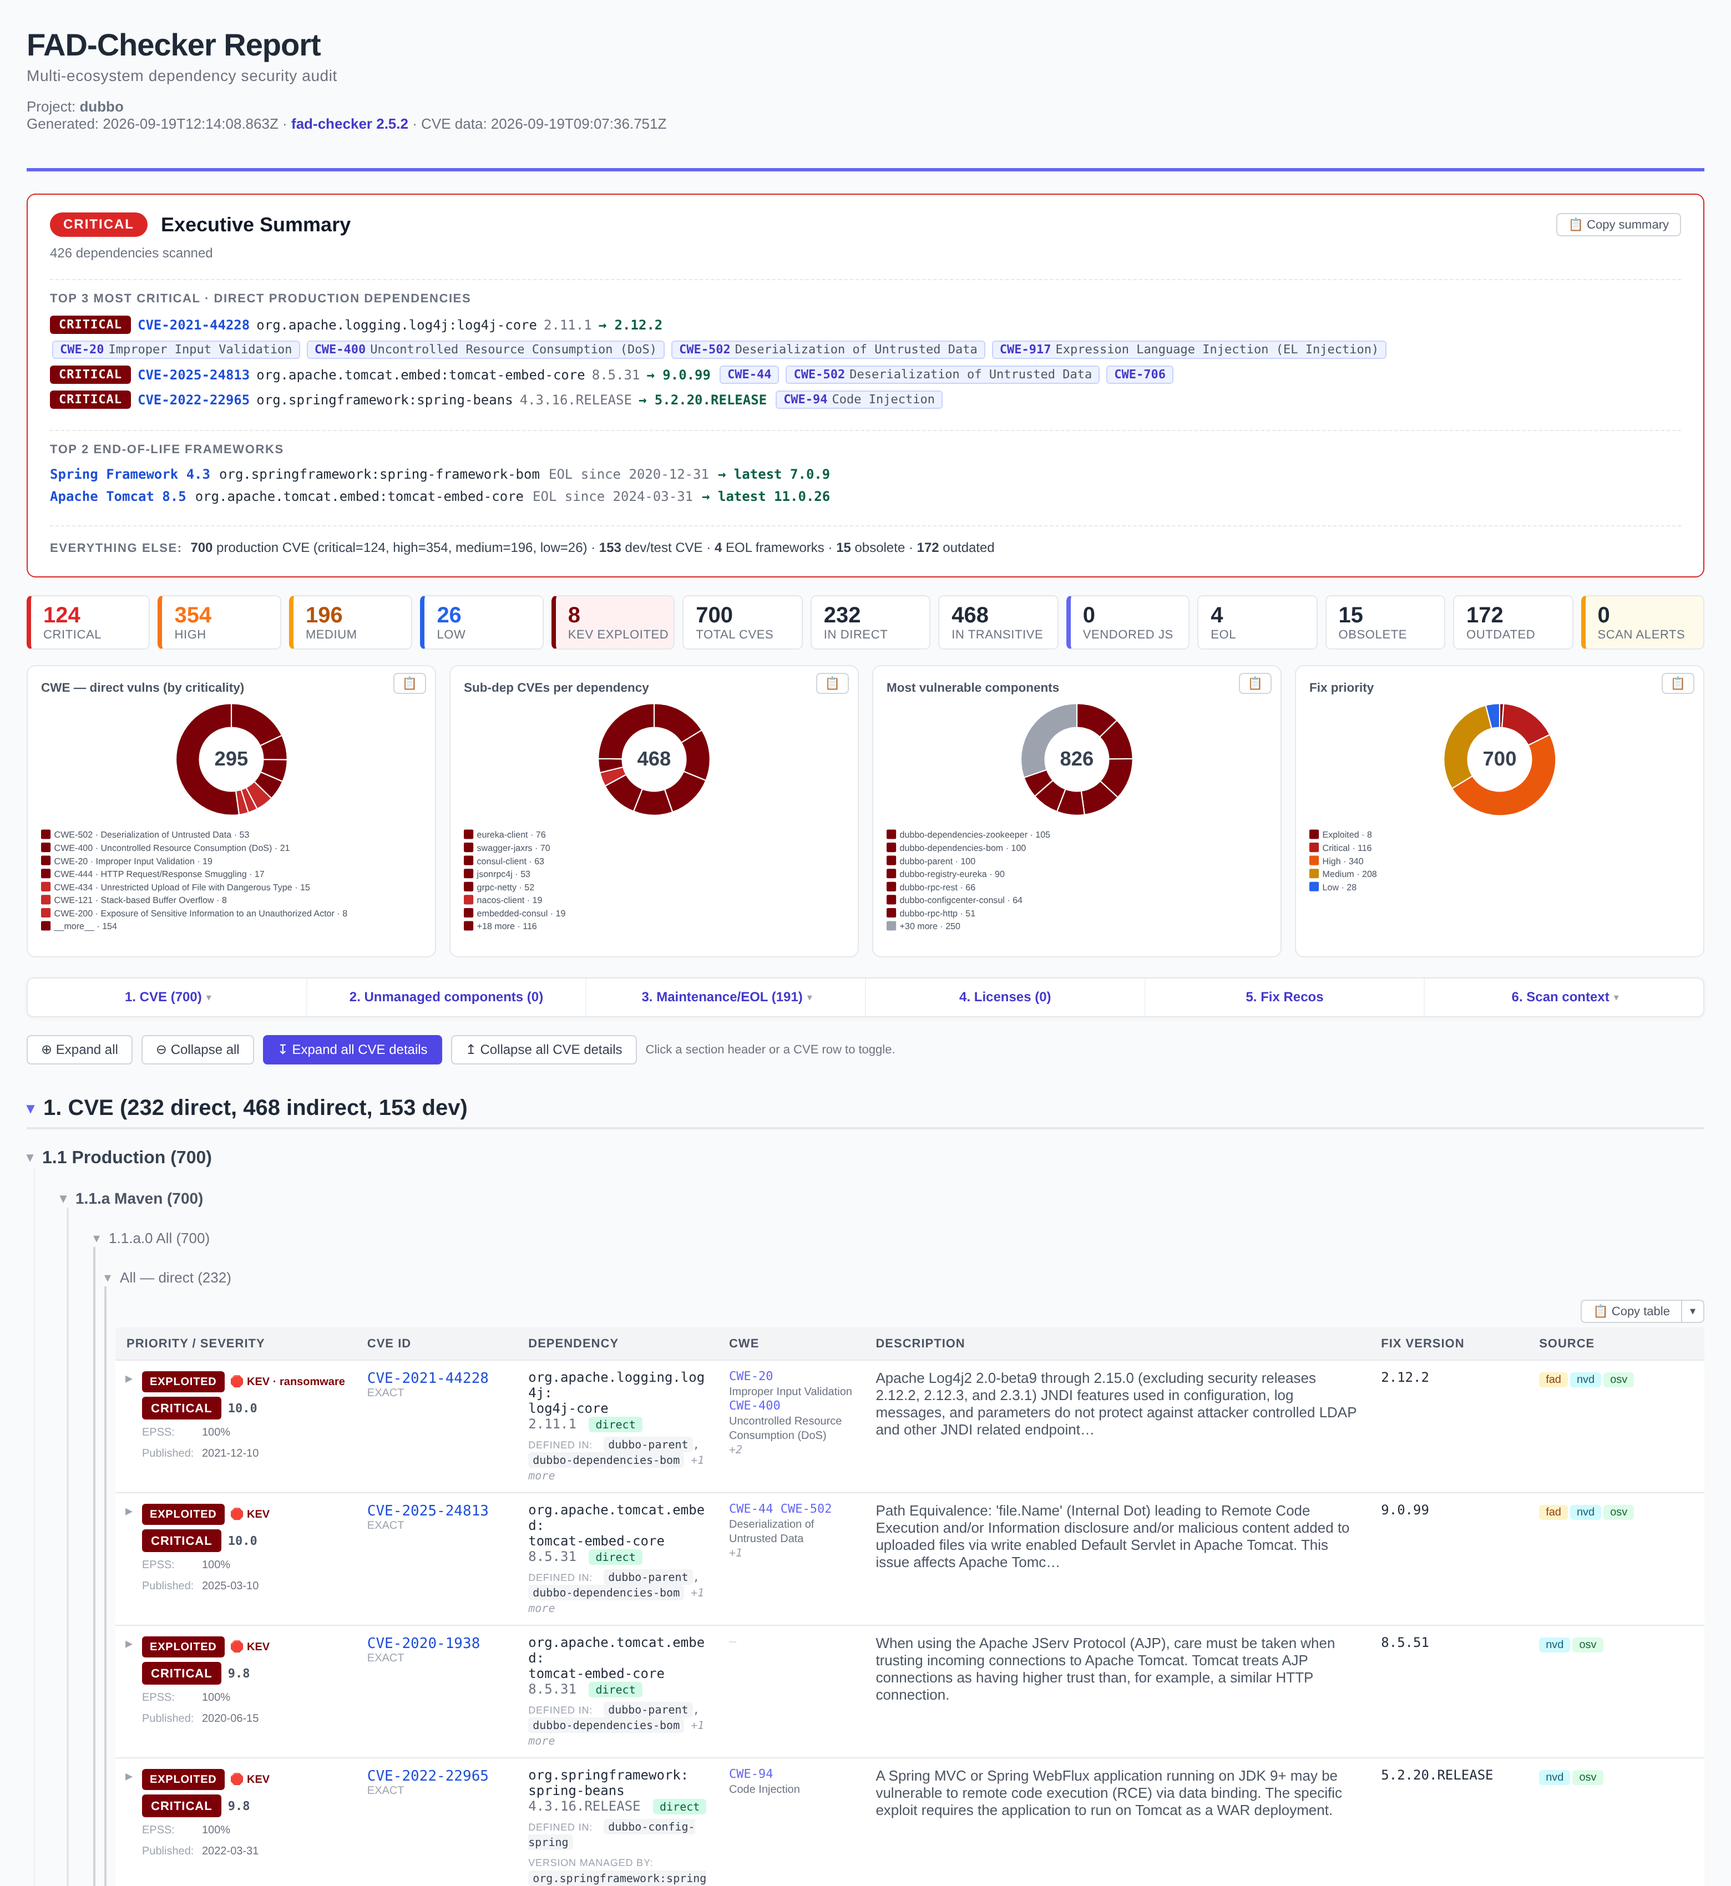
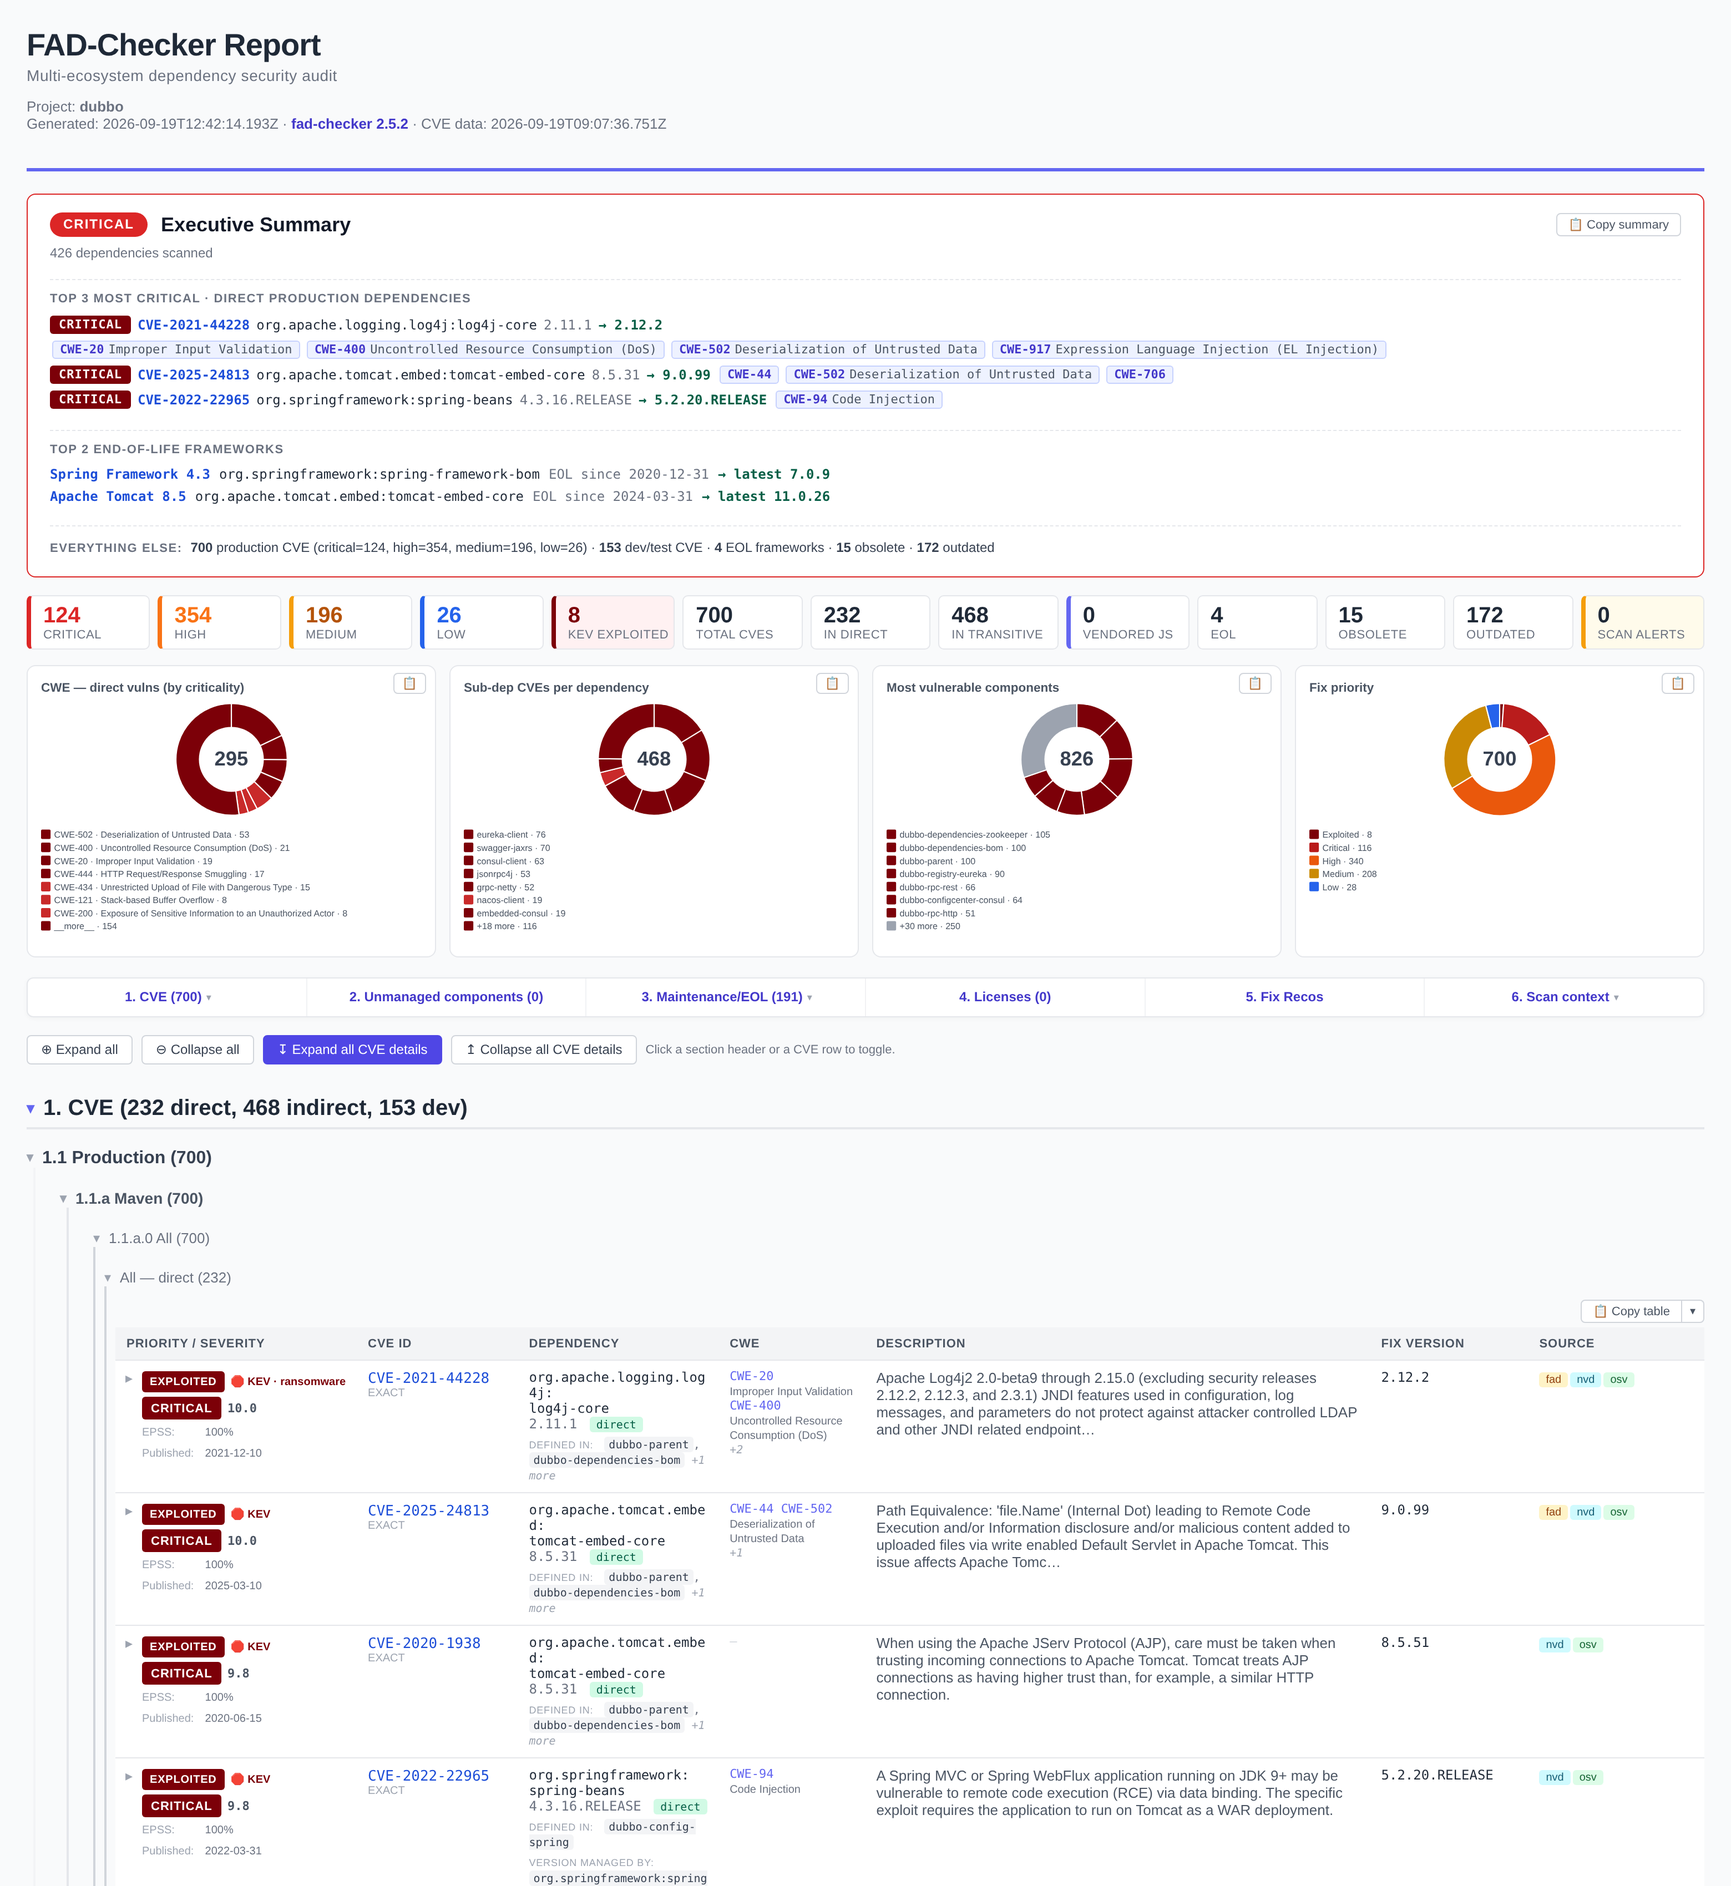
fix(report): a copied vulnerability pasted as "CRITICAL9.8"
The merged priority cell separated its severity badge from its CVSS score with
a CSS margin, and drew the "EPSS:" / "Published:" colons with a ::after. Both
render correctly on screen, and neither exists in textContent — which is exactly
what the clipboard's plain-text flavour and tableToTsv read. So a paste into
Word produced CRITICAL9.8, EPSS100% and Published2021-12-10.

The separators are in the markup now: a real space before the score, a real
colon in the key, a space before the KEV chip which had the same gap against the
band badge. One source of truth, so the same text reaches the screen, the .doc,
the clipboard's HTML flavour and its plain-text one. The margins are still there
but only for rhythm, reduced since the space now carries the gap.

This also removes a patch I had added in the other direction: inlineStylesForWord
was rewriting each key's textContent to re-inject the colon for the clipboard.
That fixed the HTML flavour and not the TSV, because tableToTsv reads the LIVE
table rather than the clone — the kind of near-miss that happens when a fix is
applied at the consumer instead of the source.

Verified in a real browser on the Dubbo report: the cell now reads
"EXPLOITED 🛑 KEV · ransomware" / "CRITICAL 10.0" / "EPSS: 100%" /
"Published: 2021-12-10". A test asserts the separators and, negatively, that the
glued forms are gone. 867 tests green, layout unchanged, report.png regenerated.

diff --git a/lib/cve-report.js b/lib/cve-report.js
@@ -135,14 +135,17 @@ function priorityParts(m) {
 function priorityCell(m, published) {
 	const { bandBadge, kev } = priorityParts(m);
 	// 1 — act on this one? fix-priority band, and the KEV flag that overrides everything.
-	const l1 = `<div class="prio-line">${bandBadge}${kev}</div>`;
+	const l1 = `<div class="prio-line">${bandBadge}${kev ? " " + kev : ""}</div>`;   // separator in the markup, see below
 	// 2 — how bad is it? CVSS severity and score.
-	const score = m.cve?.score != null ? `<span class="prio-score" title="CVSS base score">${esc(m.cve.score.toFixed(1))}</span>` : "";
+	// The separator lives in the MARKUP, not in CSS. A margin renders a gap on screen but
+	// is absent from textContent, which is what the clipboard's plain-text flavour and the
+	// TSV export read — they were producing "CRITICAL9.8".
+	const score = m.cve?.score != null ? ` <span class="prio-score" title="${esc(t("CVSS base score"))}">${esc(m.cve.score.toFixed(1))}</span>` : "";
 	const l2 = `<div class="prio-line">${badge(m.cve?.severity)}${score}</div>`;
 	// 3 and 4 — context, dimmed and LABELLED. A bare percentage and a bare date share no
 	// column header any more, so each says what it is rather than relying on the reader.
 	const meta = (key, value, title) =>
-		`<div class="prio-line prio-meta"><span class="prio-k">${esc(key)}</span>${title ? `<span title="${esc(title)}">${esc(value)}</span>` : esc(value)}</div>`;
+		`<div class="prio-line prio-meta"><span class="prio-k">${esc(key)}:</span> ${title ? `<span title="${esc(title)}">${esc(value)}</span>` : esc(value)}</div>`;
 	const l3 = m.cve?.epssPercentile != null
 		? meta("EPSS", `${Math.round(m.cve.epssPercentile * 100)}%`,
 			`EPSS score ${m.cve.epssScore != null ? (m.cve.epssScore * 100).toFixed(1) : "?"}% — percentile among all scored CVEs`)
@@ -225,16 +228,15 @@ h2 { margin: 32px 0 12px; font-size: 20px; border-bottom: 2px solid #e5e7eb; pad
 td.prio { white-space: normal; }
 td.prio .prio-line { display: block; line-height: 1.5; margin-bottom: 4px; white-space: nowrap; }
 td.prio .prio-line:last-child { margin-bottom: 0; }
-td.prio .prio-score { margin-left: 6px; font-size: 11px; font-weight: 600; color: #4b5563; font-family: ui-monospace, monospace; }
+td.prio .prio-score { margin-left: 2px; font-size: 11px; font-weight: 600; color: #4b5563; font-family: ui-monospace, monospace; }
 td.prio .prio-meta { font-size: 10px; color: #6b7280; white-space: nowrap; }
 /* A fixed-width key column so EPSS and Published line up under each other. The padding is
    inside the inline-block and therefore applies AFTER the colon, which min-width alone does
    not guarantee: "Published:" is already wider than the minimum and butted against its value. */
 td.prio .prio-k { display: inline-block; min-width: 5.4em; padding-right: 6px; color: #9ca3af; }
-td.prio .prio-k::after { content: ":"; }
 td.prio .prio-date { font-family: ui-monospace, monospace; }
 td.prio .prio-band { white-space: nowrap; }
-td.prio .kev-chip { display: inline-block; margin-left: 5px; font-size: 10px; font-weight: 700; color: #7c0008; white-space: nowrap; }
+td.prio .kev-chip { display: inline-block; margin-left: 2px; font-size: 10px; font-weight: 700; color: #7c0008; white-space: nowrap; }
 td.prio .epss-chip { display: block; margin-top: 2px; font-size: 10px; color: #6b7280; font-family: ui-monospace, monospace; white-space: nowrap; }
 .summary .card.sev-kev { border-left: 4px solid #7c0008; background: #fff1f2; }
 .summary .card.sev-kev .v { color: #7c0008; }
@@ -2302,12 +2304,7 @@ const COPY_SCRIPT = `
 			span.setAttribute('style', 'margin-left:6px; font-weight:bold; font-size:8pt; color:#7c0008;');
 			el.parentNode.replaceChild(span, el);
 		});
-		// The "EPSS:" / "Published:" keys are a ::after colon in CSS, which the clipboard
-		// does not carry — write the colon into the text so the paste still reads as a label.
-		clone.querySelectorAll('.prio-k').forEach(function(el){
-			el.textContent = (el.textContent || '').trim() + ': ';
-			el.setAttribute('style', 'color:#9ca3af;');
-		});
+		clone.querySelectorAll('.prio-k').forEach(function(el){ el.setAttribute('style', 'color:#9ca3af;'); });
 		clone.querySelectorAll('.prio-meta').forEach(function(el){
 			el.setAttribute('style', 'display:block; margin-bottom:2px; font-size:8pt; color:#6b7280;');
 		});
@@ -2697,7 +2694,6 @@ td.prio .prio-line { display: block !important; margin-bottom: 2px; }
 td.prio .kev-chip { display: inline !important; margin-left: 5px; font-size: 8pt; font-weight: bold; color: #7c0008; }
 td.prio .prio-meta { font-size: 8pt; color: #6b7280; }
 td.prio .prio-k { display: inline !important; color: #9ca3af; }
-td.prio .prio-k:after { content: ": "; }
 td.prio .prio-score { margin-left: 5px; font-size: 9pt; font-weight: bold; color: #4b5563; }
 /* Long URLs and coordinates: wrap instead of overflow */
 td.cve, td.dep, .via, .ref-list li, .defined-in code { word-break: break-word; overflow-wrap: anywhere; }

diff --git a/test/cve-report.test.js b/test/cve-report.test.js
@@ -631,3 +631,22 @@ test('"Declared in" counts descriptors by their real name, not "POM"', () => {
 	assert.equal(descriptorCount(["/p/pom.xml", "/p/package.json"]), "2 descriptors");
 	assert.equal(descriptorCount([]), "0 descriptors");
 });
+
+test("the merged cell's separators are in the markup, not in CSS", () => {
+	// A margin or a ::after renders a gap on screen and is invisible to textContent — which
+	// is exactly what the clipboard's plain-text flavour and the TSV export read. The Word
+	// paste was coming out as "CRITICAL9.8" and "EPSS100%".
+	const dep = makeDepRecord({ ecosystem: "maven", namespace: "g", name: "a", version: "1.0.0", manifestPath: "/p/pom.xml" });
+	const html = generateHtmlReport({
+		cveMatches: [{ dep, cve: { id: "CVE-2021-44228", severity: "CRITICAL", score: 9.8, description: "d", published: "2021-12-10", kev: true, epssPercentile: 1 } }],
+		eolResults: [], obsoleteResults: [], outdatedResults: [], projectInfo,
+	});
+	const cell = /<td class="prio">([\s\S]*?)<\/td>/.exec(html)[1];
+	const text = cell.replace(/<[^>]+>/g, "").replace(/\s+/g, " ").trim();
+	assert.match(text, /CRITICAL 9\.8/, `severity and score must be separated, got: ${text}`);
+	assert.match(text, /EPSS: 100%/, "the key's colon must be real text, not a ::after");
+	assert.match(text, /Published: 2021-12-10/);
+	assert.doesNotMatch(text, /CRITICAL9\.8|EPSS100|Published2021/);
+	// The KEV chip too: it sat against the band badge.
+	assert.doesNotMatch(text, /EXPLOITED🛑/);
+});

diff --git a/CLAUDE.md b/CLAUDE.md
@@ -26,7 +26,7 @@ No build tool (`mvn`, `npm install`, `yarn`) is required on PATH — `pom.xml` /
 
 ```bash
 npm install
-npm test                  # 866 unit tests via node --test
+npm test                  # 867 unit tests via node --test
 
 # basic cleanup workflow
 node fad-checker.js -s ./proj                                        # read-only, full report
@@ -150,6 +150,7 @@ For the deep dive — pipeline stages, the resolved-deps Map shape, report struc
 - **The pinned chapter bar is one row of dropdowns** (`renderToc`): sub-chapters used to sit inline behind a `›`, so a full report listed sixteen links and the sticky bar wrapped onto two rows — a third of the viewport, on every scroll. Each chapter with sub-chapters now reveals them on hover or keyboard focus. Deliberately **CSS-only** (`:hover` / `:focus-within`): a nav that needs JavaScript to open is a nav that silently stops working in a report opened from a mail attachment. The invisible `::after` strip under each chapter bridges the gap to its menu, or the pointer crossing it would close the menu. Root 3 is **Maintenance / EOL**, named for the part a reader scans the chapter list for. The bar is divided into **equal cells** (`flex: 1 1 0`), one per chapter, each centred in its own and separated by a hairline: left-packed natural widths meant a 700-CVE report and an empty one produced two completely different bars, so the eye had to re-find every chapter. A menu opens centred under its cell, except the last one, which is right-aligned or it would hang off the edge.
 - **A finding's "defined in" names MODULES, capped at two**: `renderDefinedIn` labels each descriptor with `lib/module-names.js` and shows at most 2 (`+N more`), the full path staying as the tooltip. "dubbo-dependencies-zookeeper" instead of "dubbo-dependencies/dubbo-dependencies-zookeeper/pom.xml" says the same thing in a quarter of the width, and that cell's width was what squeezed the Description column. `RENDER_CTX.moduleNames` is populated at the TOP of `buildBody`, before any table renders.
 - **The injected `<colgroup>` is a HINT in HTML, a clamp in Word**: `injectColgroups` now runs for both outputs, but the HTML deliberately does NOT set `table-layout: fixed`. It was tried: with `overflow-wrap: anywhere` a cell has no natural minimum, so an 8% column laminated `org.apache.logging.log4j:log4j-core` into four characters per line. Auto layout takes the same proportions as a hint and refuses to go below what content needs; `td.dep` also carries an explicit `min-width` floor for the same reason. Word gets `table-layout: fixed` in its own stylesheet, where it has no better option.
+- **A separator that only exists in CSS does not survive a copy**: the merged priority cell spaced its badge from its score with a `margin` and drew the `EPSS:` / `Published:` colons with a `::after`. Both render correctly on screen and are absent from `textContent`, which is what the clipboard's plain-text flavour and `tableToTsv` read — a Word paste came out as `CRITICAL9.8` and `EPSS100%`. Separators now live in the markup; the margins stay only for rhythm.
 - **Priority / severity / published are ONE cell, four lines** (`priorityCell`): band + KEV, severity + CVSS score, then `EPSS:` and `Published:` as labelled dimmed rows (the key is an inline-block with a min-width AND a right padding — the padding applies after the `::after` colon, which min-width alone does not guarantee, so a long key like `Published` stops butting against its value). They are labelled because neither a bare percentage nor a bare date has a column header any more. Three narrow fixed-width columns were spending ~22% of the table on ~8% of the information. **Both Word paths must be kept in sync when this cell changes**: the `.doc` stylesheet states `display` explicitly (Word honours block/inline on a `<div>` unreliably) and `inlineStylesForWord` rewrites the inline chips to `<span>` with inline styles, because the clipboard carries no stylesheet. `TABLE_COLGROUPS.cve.match` keys on the exact header text — editing the header without it silently drops the Word column widths.
 - **Codec abstraction**: every ecosystem lives behind a codec (`lib/codecs/*`) implementing one interface (`detect`/`collect`/`coordKey`/`formatCoord`/`osvPackageName`/`checkRegistry`/`resolveEolProduct`/`recipe`/`nativeScanners`). The orchestrator loops over the codecs `detectCodecs()` returns. OSV/NVD/CPE and the endoflife.date fetch are **shared, ecosystem-agnostic** services that ask the codec for a package/product name. CVE-index (maven) and retire.js (npm) are `nativeScanners` owned by their codec. Adding an ecosystem = adding a codec, no orchestrator edits.
 - **Map keys are ecosystem-namespaced** (`dep.coordKey`): Maven uses a **bare** `g:a` (kept prefix-free so `transitive.js` internals and existing tests are untouched); npm uses `npm:name`; new ecosystems use `nuget:`/`composer:vendor/pkg`/`pypi:`. Bare `g:a` is collision-free against those prefixes. Built by `makeDepRecord()`; `groupId`/`artifactId`/`pomPaths` are kept as real duplicated alias fields (not getters — depRecords are spread in hot paths).
@@ -175,7 +176,7 @@ For the deep dive — pipeline stages, the resolved-deps Map shape, report struc
 ## Testing
 
 ```bash
-node --test test/*.test.js            # full suite (866 tests)
+node --test test/*.test.js            # full suite (867 tests)
 node --test test/core.test.js         # one file
 ```
 

diff --git a/CHANGELOG.md b/CHANGELOG.md
@@ -119,6 +119,12 @@ This project adheres to [Semantic Versioning](https://semver.org/).
   `--fail-on` / `--fail-on-new`, `--baseline`. A read-only run (no `-t`) is unchanged.
 
 ### Fixed
+- **A copied vulnerability pasted as `CRITICAL9.8`.** The merged priority cell separated its
+  severity badge from its CVSS score with a CSS margin, and drew the `EPSS:` / `Published:`
+  colons with a `::after`. Both look right on screen and neither exists in `textContent` —
+  which is exactly what the clipboard's plain-text flavour and the TSV export read. The
+  separators are in the markup now, so the same text reaches the screen, the `.doc`, the
+  clipboard and the TSV. The KEV chip had the same gap against the band badge.
 - **The report called every descriptor a POM.** "Declared in (1 POM)" said POM whether the
   file was a `pom.xml`, a `package.json` or a `composer.lock`, and the advice for a CVE with
   no published fix was "Add `<exclusion>` in root POM" — given to npm, PyPI, NuGet, Go and
